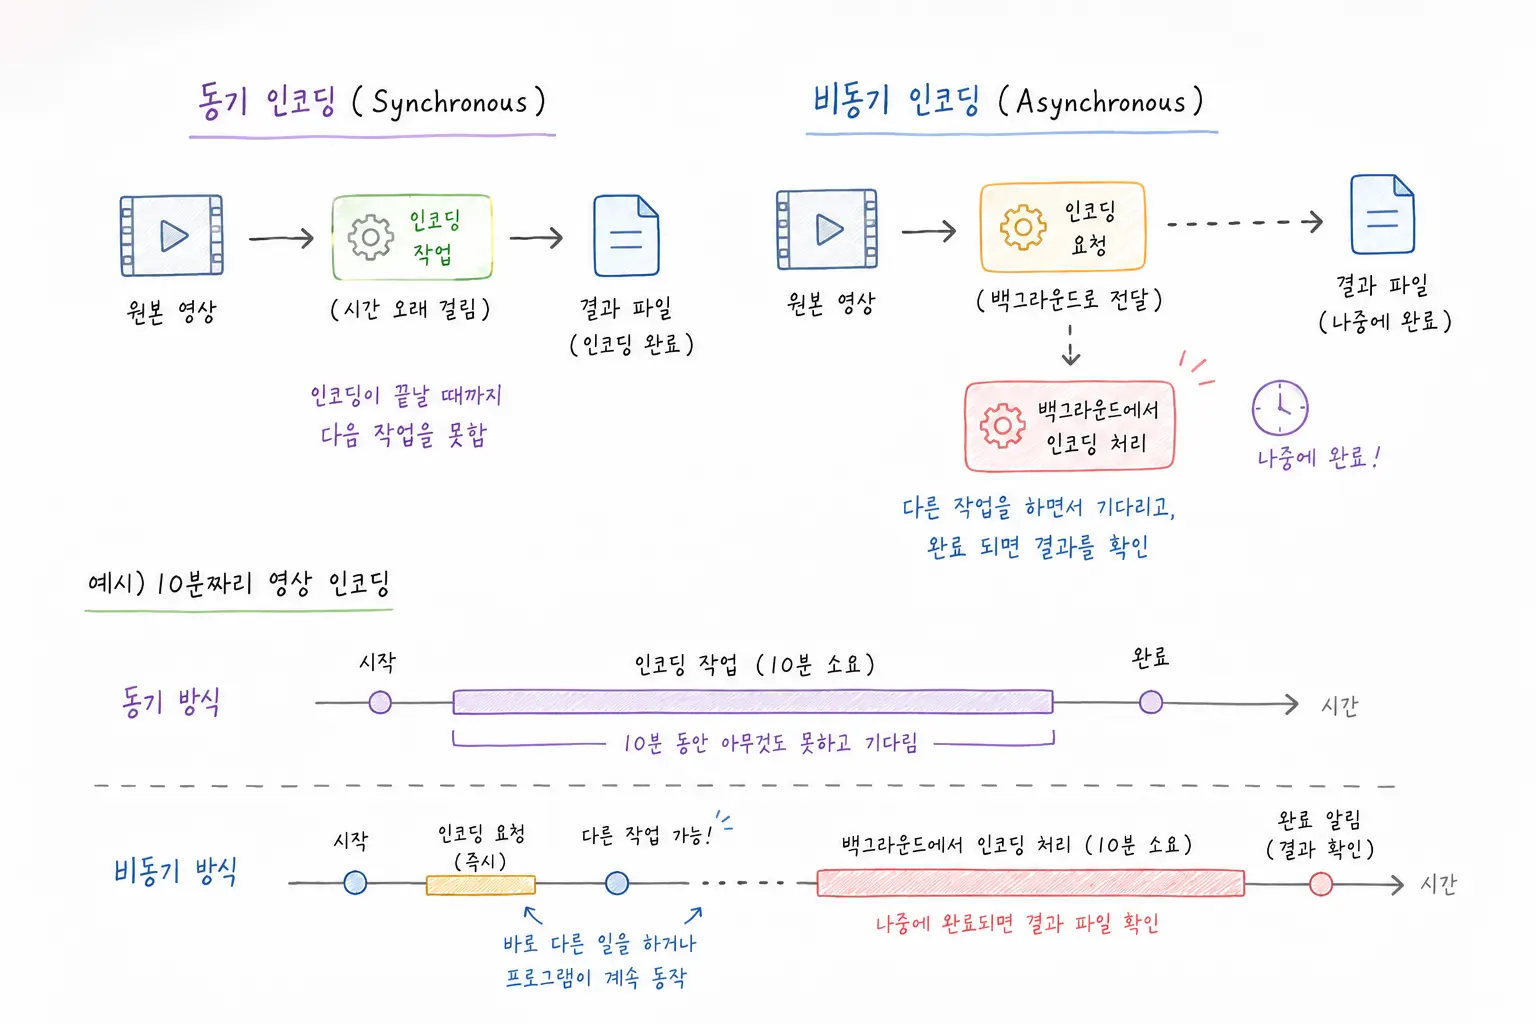
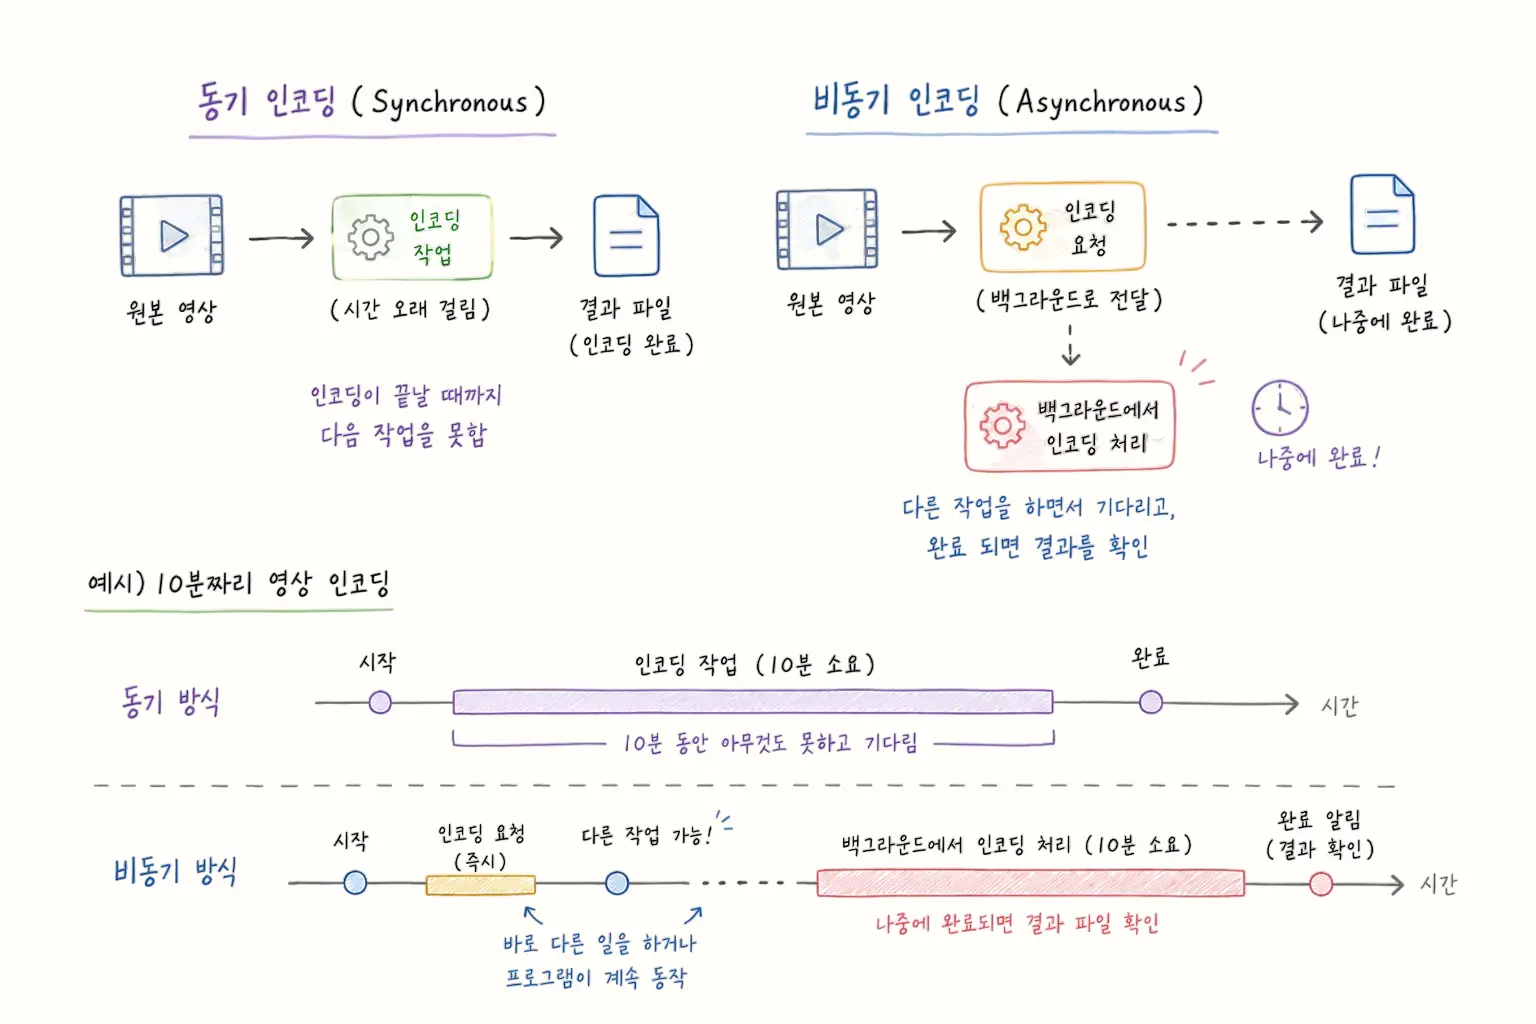
add: checkpoint

diff --git a/src/lib/codeHighlight.ts b/src/lib/codeHighlight.ts
@@ -1,41 +1,121 @@
-import hljs from 'highlight.js/lib/core'
-import css from 'highlight.js/lib/languages/css'
-import go from 'highlight.js/lib/languages/go'
-import javascript from 'highlight.js/lib/languages/javascript'
-import json from 'highlight.js/lib/languages/json'
-import python from 'highlight.js/lib/languages/python'
-import typescript from 'highlight.js/lib/languages/typescript'
-import xml from 'highlight.js/lib/languages/xml'
+import hljs from 'highlight.js'
 import { marked } from 'marked'
 import { markedHighlight } from 'marked-highlight'
 
-const LANG_ALIASES: Record<string, string> = {
-  html: 'xml',
-  xml: 'xml',
-  js: 'javascript',
-  javascript: 'javascript',
-  css: 'css',
-  go: 'go',
-  golang: 'go',
-  python: 'python',
-  py: 'python',
-  json: 'json',
-  ts: 'typescript',
-  typescript: 'typescript',
+/** git 하위 명령: 역할별 토큰 색 (github-dark 기준). */
+const GIT_SUBCOMMANDS = [
+  // 브랜치/이동 — keyword (#ff7b72)
+  {
+    className: 'keyword',
+    begin:
+      /(?<=\s)(?:switch|checkout|branch|merge|rebase|cherry-pick|restore|revert|bisect)\b/,
+  },
+  // 기록/인덱스 — title (#d2a8ff)
+  {
+    className: 'title',
+    begin: /(?<=\s)(?:add|commit|stash|reset|rm|mv|clean)\b/,
+  },
+  // 원격 동기화 — name (#7ee787)
+  {
+    className: 'name',
+    begin: /(?<=\s)(?:fetch|pull|push|clone|remote|submodule)\b/,
+  },
+  // 조회 — literal (#79c0ff)
+  {
+    className: 'literal',
+    begin:
+      /(?<=\s)(?:status|log|diff|show|blame|tag|rev-parse|ls-files|describe)\b/,
+  },
+]
+
+/** 발표용 CLI 명령줄: 명령어 / 플래그 / 문자열을 색칠한다. */
+function cliLanguage(hljsApi: typeof hljs) {
+  const stringsAndFlags = [
+    hljsApi.QUOTE_STRING_MODE,
+    hljsApi.APOS_STRING_MODE,
+    {
+      className: 'attr',
+      // 공백 뒤의 --flag / -f 만 매칭 (경로 중간의 - 제외)
+      begin: /(?<=\s)(--[\w-]+|-[A-Za-z][\w-]*)/,
+    },
+  ]
+
+  const argsContains = (extra: typeof GIT_SUBCOMMANDS = []) => ({
+    end: /$/,
+    contains: [...extra, ...stringsAndFlags],
+  })
+
+  return {
+    name: 'CLI',
+    aliases: ['console'],
+    contains: [
+      {
+        begin: /^/,
+        end: /$/,
+        returnBegin: true,
+        contains: [
+          {
+            className: 'meta',
+            begin: /^\s*\$\s+/,
+          },
+          {
+            className: 'built_in',
+            begin: /\bgit\b/,
+            end: /\s|$/,
+            excludeEnd: true,
+            starts: argsContains(GIT_SUBCOMMANDS),
+          },
+          {
+            className: 'built_in',
+            begin: /\S+/,
+            end: /\s|$/,
+            excludeEnd: true,
+            starts: argsContains(),
+          },
+        ],
+      },
+    ],
+  }
 }
 
-hljs.registerLanguage('xml', xml)
-hljs.registerLanguage('javascript', javascript)
-hljs.registerLanguage('css', css)
-hljs.registerLanguage('go', go)
-hljs.registerLanguage('python', python)
-hljs.registerLanguage('json', json)
-hljs.registerLanguage('typescript', typescript)
+hljs.registerLanguage('cli', cliLanguage)
+
+/** 마크다운 fence 별칭 → highlight.js 언어 이름 */
+const LANG_ALIASES: Record<string, string> = {
+  html: 'xml',
+  htm: 'xml',
+  js: 'javascript',
+  jsx: 'javascript',
+  ts: 'typescript',
+  tsx: 'typescript',
+  py: 'python',
+  golang: 'go',
+  sh: 'bash',
+  shell: 'bash',
+  zsh: 'bash',
+  console: 'cli',
+  cli: 'cli',
+  yml: 'yaml',
+  md: 'markdown',
+  dockerfile: 'dockerfile',
+  docker: 'dockerfile',
+  'c++': 'cpp',
+  'c#': 'csharp',
+  cs: 'csharp',
+  rs: 'rust',
+  kt: 'kotlin',
+  rb: 'ruby',
+  plaintext: 'plaintext',
+  text: 'plaintext',
+  txt: 'plaintext',
+}
 
 function normalizeLang(lang: string | undefined): string | undefined {
   if (!lang) return undefined
   const key = lang.trim().toLowerCase()
-  return LANG_ALIASES[key]
+  const aliased = LANG_ALIASES[key] ?? key
+  if (hljs.getLanguage(aliased)) return aliased
+  return undefined
 }
 
 function escapeHtml(text: string): string {
@@ -53,7 +133,7 @@ marked.use(
     langPrefix: 'hljs language-',
     highlight(code, lang) {
       const language = normalizeLang(lang)
-      if (!language || !hljs.getLanguage(language)) {
+      if (!language) {
         return escapeHtml(code)
       }
       return hljs.highlight(code, { language }).value

diff --git a/src/pages/Viewer.tsx b/src/pages/Viewer.tsx
@@ -20,7 +20,7 @@ export default function Viewer() {
   const doc = useMemo(() => getDoc(slug), [slug])
   const [viewDoc, setViewDoc] = useState<ParsedDoc | null>(null)
   const viewParam = searchParams.get('view')
-  const mode: ViewMode = viewParam === 'slides' ? 'slides' : 'scroll'
+  const mode: ViewMode = viewParam === 'scroll' ? 'scroll' : 'slides'
   const [index, setIndex] = useState(0)
   const [exporting, setExporting] = useState(false)
   const [navHint, setNavHint] = useState(false)
@@ -103,8 +103,8 @@ export default function Viewer() {
   const setMode = useCallback(
     (next: ViewMode) => {
       const params = new URLSearchParams(searchParams)
-      if (next === 'slides') {
-        params.set('view', 'slides')
+      if (next === 'scroll') {
+        params.set('view', 'scroll')
       } else {
         params.delete('view')
       }

diff --git a/content/2026-07-20-pycon-fastapi-celery/index.md b/content/2026-07-20-pycon-fastapi-celery/index.md
@@ -78,22 +78,127 @@ flowchart LR
 
 <header>실습</header>
 
-### 체크포인트
+학습 편의를 위해 개발 환경은 세팅된 상태로 진행합니다.<br/>
+막힐 경우 필요에 따라 체크포인트 브랜치로 이동해 이어서 실습합니다.
 
-기본 세팅에서 API를 먼저 만들고, Celery 세팅으로 인코딩 결과물까지 이어갑니다.
-
-1. 기본 세팅
-   - `checkpoint/01-fastapi-upload`: FastAPI로 영상 업로드와 저장
-
-2. Celery 세팅 (결과물까지)
-   - `checkpoint/02-celery-redis`: Redis + Celery로 작업 enqueue와 상태 조회
-   - `checkpoint/03-ffmpeg-hls`: worker에서 FFmpeg로 HLS 결과 생성
-   - `checkpoint/04-hls-player`: polling과 재생으로 최종 결과 확인
+```cli
+git fetch origin
+git switch checkpoint/00-fastapi-setup
+python scripts/dev.py docker
+```
 
 ---
 
-<header>사이드 프로젝트 경험담</header>
+<header>FastAPI란</header>
+
+Python으로 HTTP API를 빠르게 만들기 위한 웹 프레임워크
+
+- 타입 힌트 기반으로 요청/응답을 검증
+- `uvicorn`으로 실행하는 ASGI 앱
+- `/docs`에서 Swagger UI를 자동 제공
+
+```python
+from fastapi import FastAPI
+
+app = FastAPI()
+
[email redacted]("/health")
+def health():
+    return {"status": "ok"}
+```
 
 ---
 
-<header>Q&A</header>
+<header>FastAPI 구조</header>
+
+이번 튜토리얼에서 쓰는 최소 구성
+
+- `app = FastAPI(...)`: 앱 인스턴스
+- `APIRouter`: 경로를 파일 단위로 분리
+- `include_router(..., prefix="/api")`: `/api` 아래로 라우트 연결
+- `StaticFiles`: 튜토리얼 HTML/CSS 제공
+
+요청 처리 흐름: Client → uvicorn → FastAPI route → JSON 응답
+
+---
+
+<header>Checkpoint 00</header>
+
+### FastAPI 초기 세팅
+
+- Docker로 FastAPI 앱 기동
+- `/api/health`와 `/docs` 확인
+
+```cli
+git switch checkpoint/00-fastapi-setup
+```
+
+성공 기준: `GET /api/health`가 `{"status":"ok"}`를 반환함
+
+---
+
+<header>Checkpoint 01</header>
+
+### FastAPI 업로드
+
+- 영상 업로드 API 구현
+- `job_id` 디렉터리에 원본 저장
+
+```cli
+git switch checkpoint/01-fastapi-upload
+```
+
+성공 기준: `POST /api/videos` 응답에 `job_id`, `source_url`이 전달됨
+
+---
+
+<header>Checkpoint 02</header>
+
+### Celery + Redis
+
+- 업로드 직후 작업을 enqueue
+- `GET /api/jobs/{job_id}`로 상태 조회
+
+```cli
+git switch checkpoint/02-celery-redis
+```
+
+성공 기준: API는 바로 `202`를 주고, worker 로그에 작업 수신이 보임
+
+---
+
+<header>Checkpoint 03</header>
+
+### FFmpeg HLS
+
+- worker에서만 FFmpeg 실행
+- `playlist.m3u8`와 segment 생성
+
+```cli
+git switch checkpoint/03-ffmpeg-hls
+```
+
+성공 기준: `SUCCESS`일 때 `hls_url`이 내려옴
+
+---
+
+<header>Checkpoint 04</header>
+
+### HLS Player
+
+- 작업 상태 polling
+- 원본과 HLS 결과 나란히 재생
+
+```cli
+git switch checkpoint/04-hls-player
+```
+
+성공 기준: `SUCCESS` / `FAILURE`에서 polling이 멈추고 영상이 재생됨
+
+---
+
+<header>운영</header>
+
+---
+
+# Q&A